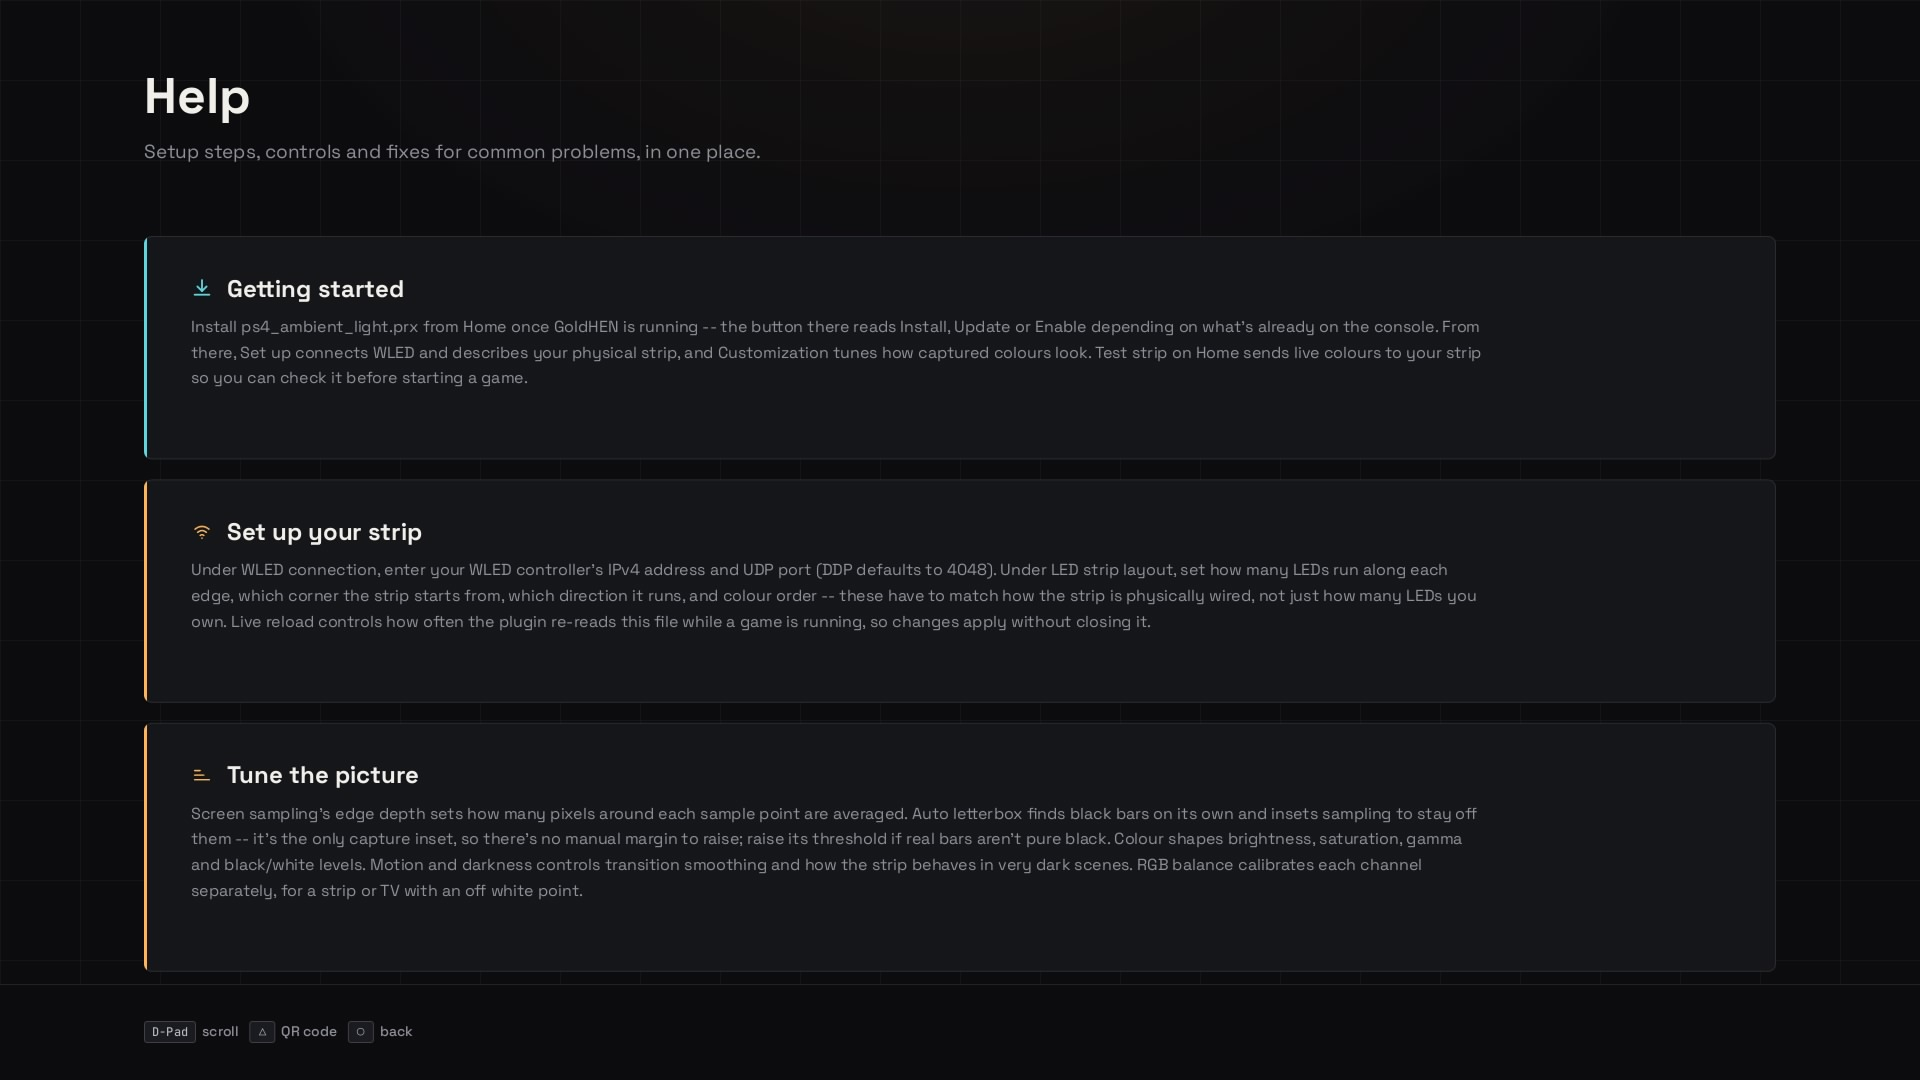
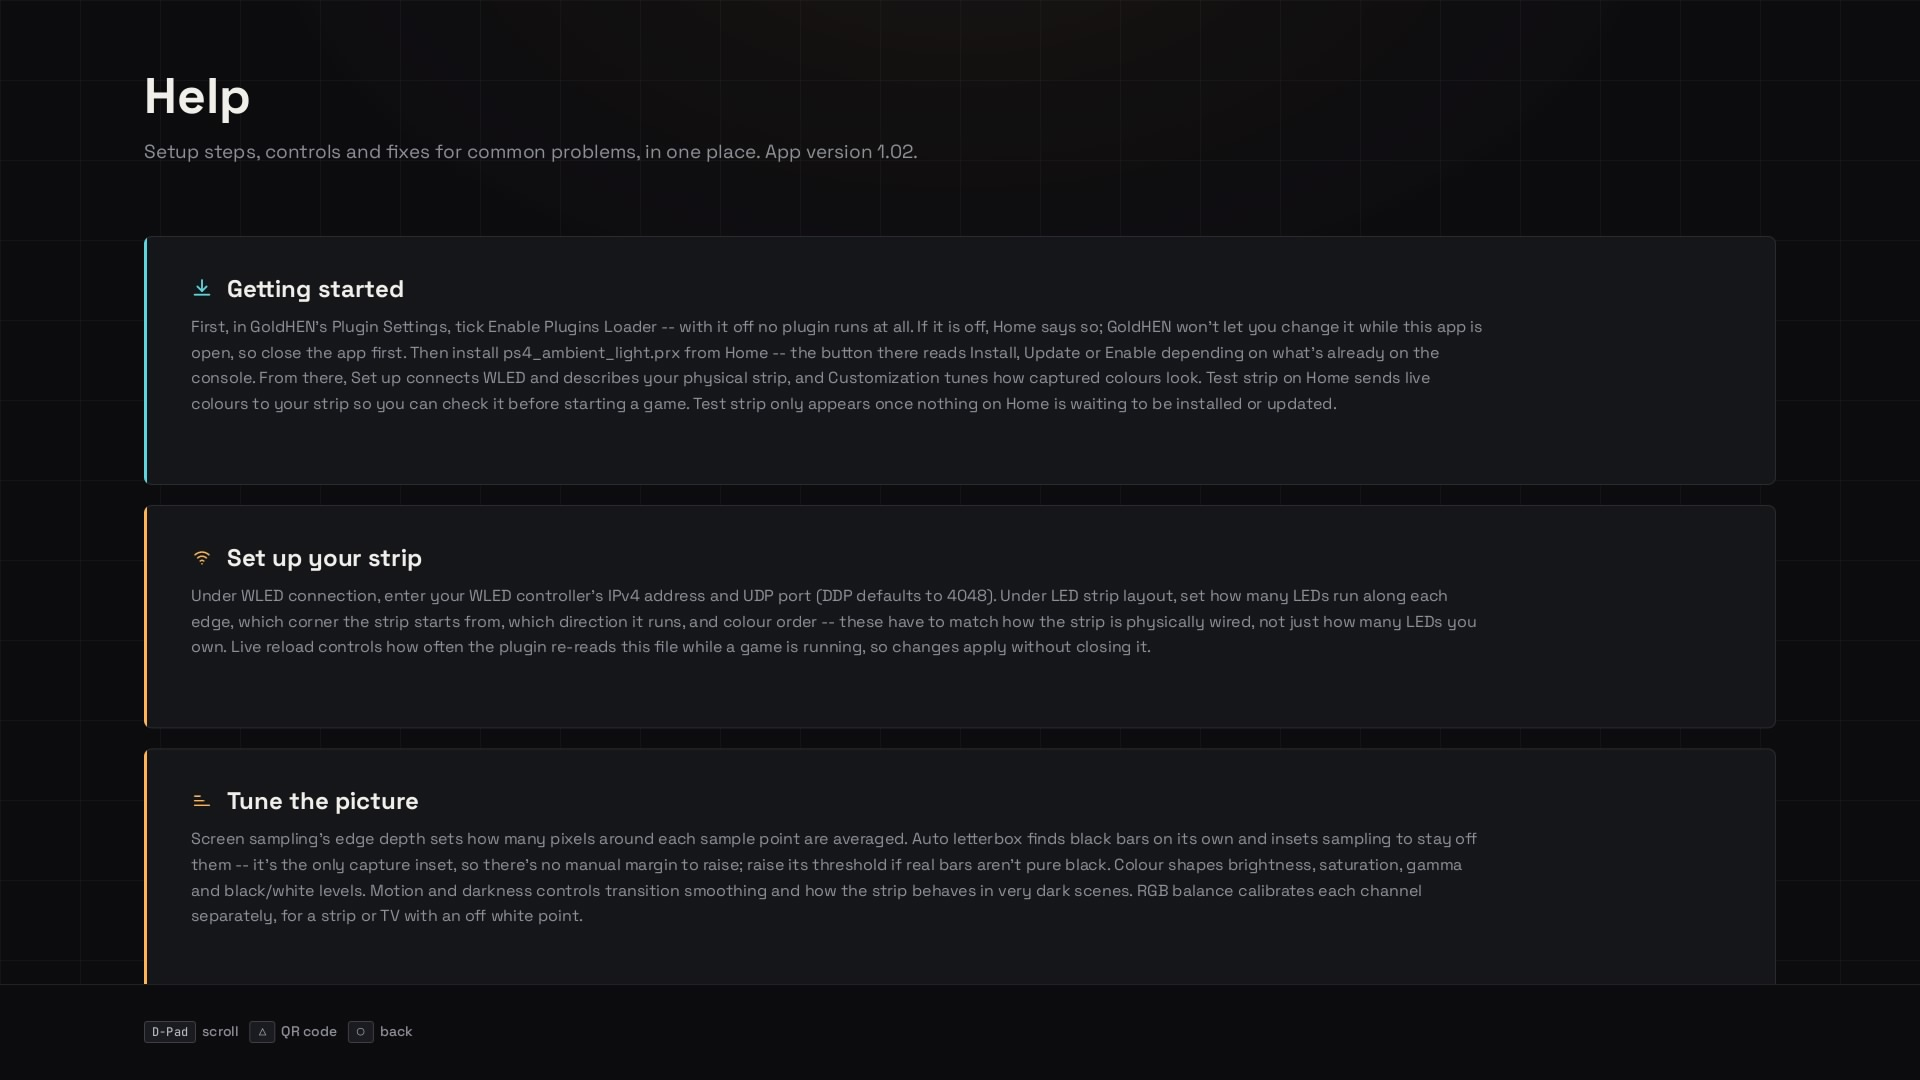
docs: update the tested firmware, mark the PS4 Pro as untested, refresh the screenshots

diff --git a/README.md b/README.md
@@ -48,8 +48,9 @@ installs from the same app.
 
 | | |
 |---|---|
-| PS4 firmware (game plugin) | 9.00 and 12.50 |
+| PS4 firmware (game plugin) | 9.00 and 12.52 |
 | PS4 firmware (shell feed + standalone payload) | 9.00 and 12.52 |
+| PS4 Pro | untested. Colors may be wrong there; if you have one, see [Reporting a game](#reporting-a-game) |
 | GoldHEN | 2.4b18.9 and 2.4b18.10 |
 | LED strip | WS2812B, 229 LEDs (73 top, 41 right, 73 bottom, 42 left), starting at the bottom left and running clockwise |
 | Controller | WLED, latest release |
@@ -73,11 +74,14 @@ on your network. If you try a different firmware, GoldHEN version or strip, a no
   the [shell feed](#shell-feed-optional) (off by default)
 
 <p align="center">
-  <img src="companion-app/assets/screenshots/home.jpg" alt="Companion app Home screen" width="45%">
-  <img src="companion-app/assets/screenshots/setup.jpg" alt="Companion app Set up screen" width="45%">
+  <img src="companion-app/assets/screenshots/home.jpg" alt="Companion app Home screen, shell feed off" width="45%">
+  <img src="companion-app/assets/screenshots/home-shell-feed.jpg" alt="Companion app Home screen, shell feed on" width="45%">
 </p>
 <p align="center">
+  <img src="companion-app/assets/screenshots/setup.jpg" alt="Companion app Set up screen" width="45%">
   <img src="companion-app/assets/screenshots/customization.jpg" alt="Companion app Customization screen" width="45%">
+</p>
+<p align="center">
   <img src="companion-app/assets/screenshots/help.jpg" alt="Companion app Help screen" width="45%">
 </p>
 
